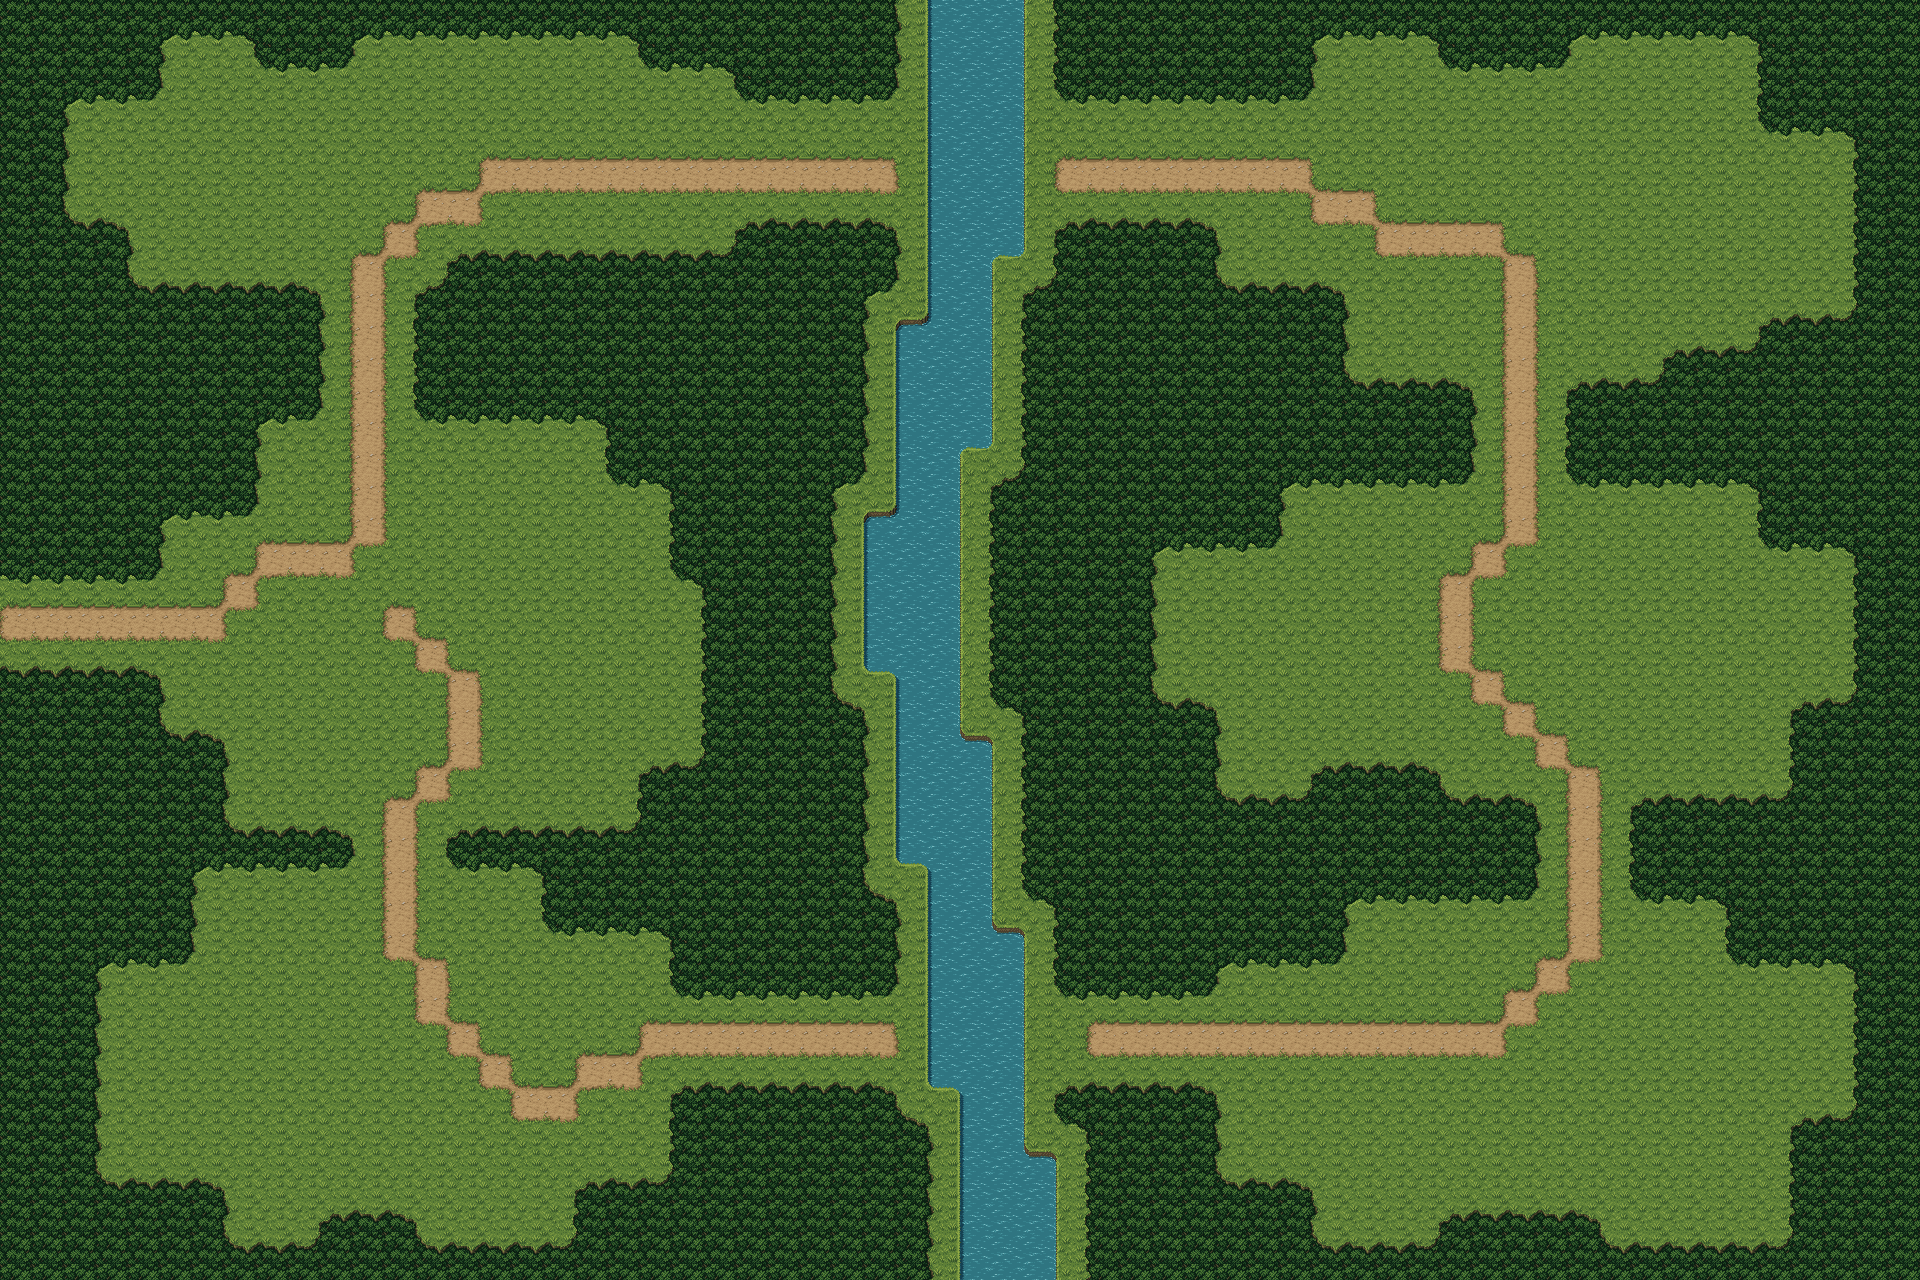
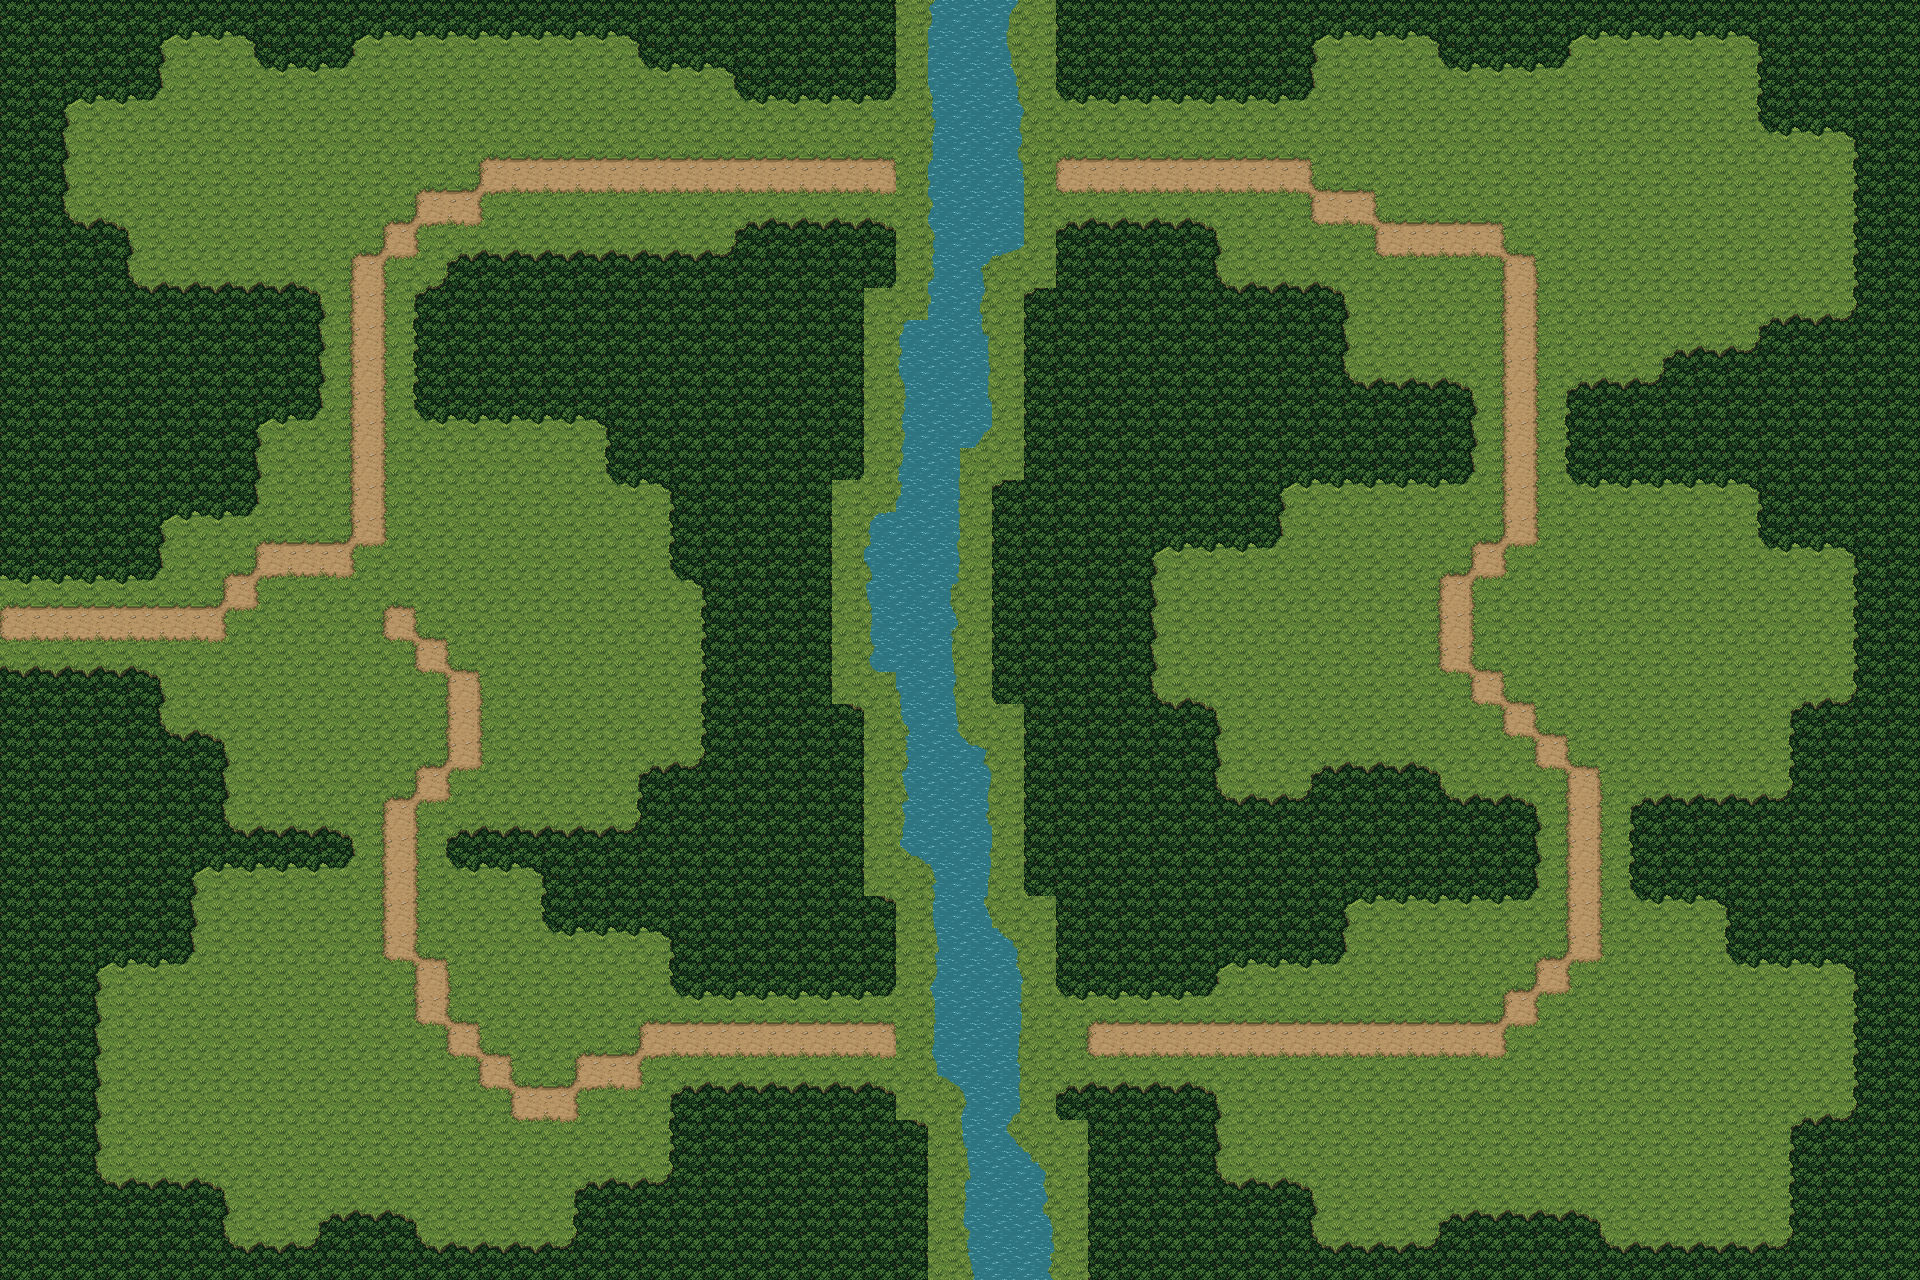
Meadowbrook: one raft across the brook, on the trail, resting on both banks; the banks wander
mb_log_bridge_long (the raft's own logs lengthened to 136 px over the 96 px of water, 0 gens, the ground's signature by
its id) replaces two short rafts that sat a row below the trail and reached neither bank. The brook cells carry their own
grassy banks, so seam-grounds reads the water from the pixels as it reads the floors. world-assets, world-core exit 0.

diff --git a/src/data/world/maps/meadowbrook_thicket.js b/src/data/world/maps/meadowbrook_thicket.js
@@ -73,9 +73,10 @@ export default Object.freeze({
     { id: 'oak', x: 56, y: 6 }, { id: 'oak', x: 37, y: 17 }, { id: 'oak', x: 56, y: 17 }, { id: 'oak', x: 39, y: 23 },
     { id: 'oak', x: 54, y: 23 }, { id: 'mb_hollow_oak', x: 55, y: 36 }, { id: 'mb_hollow_oak', x: 39, y: 30 }, { id: 'pine', x: 4, y: 31 },
     { id: 'pine', x: 4, y: 36 }, { id: 'oak', x: 19, y: 36 },
-    /* the crossings: the log bridge (the one 1-tile choke: two rafts lashed end to end, a row below the trail because a
-       unit's feet land on its tile's south row) and the ford stones, one on every open tile of the brook */
-    { id: 'mb_log_bridge', x: 29, y: 6 }, { id: 'mb_log_bridge', x: 31, y: 6 },
+    /* the crossings: the log bridge over the one 1-tile choke (y5), one raft as long as the brook is wide, centred on it and on
+       the trail (its contact row is the logs' foot, so it lies over the walked row's feet; lane/a-ground-seams 2026-11-16: two
+       short rafts a row below the trail touched neither bank), and the ford stones, one on every open tile of the brook */
+    { id: 'mb_log_bridge_long', x: 30, y: 5 },
     { id: 'mb_stepping_stones', x: 29, y: 31 }, { id: 'mb_stepping_stones', x: 30, y: 31 }, { id: 'mb_stepping_stones', x: 31, y: 31 }, { id: 'mb_stepping_stones', x: 29, y: 32 },
     { id: 'mb_stepping_stones', x: 30, y: 32 }, { id: 'mb_stepping_stones', x: 31, y: 32 }, { id: 'mb_stepping_stones', x: 29, y: 33 }, { id: 'mb_stepping_stones', x: 30, y: 33 },
     { id: 'mb_stepping_stones', x: 31, y: 33 },
